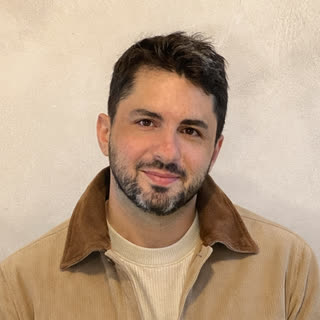
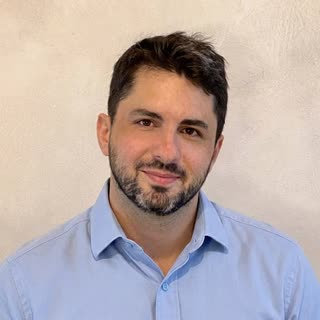
fix(website): new headshot, light-theme hero, AI automation first, mobile hero contrast
Review round 2. Four items.

**New headshot.** Converted with the recipe CREDITS.md documents, square at 600
and 320 in AVIF and JPEG. Smaller than the files it replaces (33 KB against
43 KB for the 600px JPEG) despite being a better crop. Its credit no longer says
"AI-enhanced": the new file is a plain photograph, so claiming enhancement would
be inaccurate in the other direction.

**The hero reads as light in the light theme, without a second video.** The
footage is near-black, so a white scrim over it produced the muddy grey
Francesco saw. I tested brightening as asked: lifting the blacks gives flat grey
and amplifies the banding, because a near-black source has nothing to lift.
Inverting it does work, giving a genuinely light frame with cool silver streaks
that keep the original's structure and contrast, so the light theme now applies
`invert` to the poster and the video and the dark theme removes it. That costs
no extra asset, where a second brightened encode would have meant another 3.2 MB
and swapping `src` on every theme change, which reloads the video and flashes.
Recorded as a design system rule in dome-docs `469cae2`.

**AI process automation now leads Enterprise UX**, in the navigation, the home
service cards and their numbering, the footer, the case study groups, the contact
topics, and the route manifest, which is what orders the sitemap and llms.txt.

**Mobile hero contrast.** The desktop gradient fades to transparent at 80%, which
[…]

diff --git a/src/components/media/HeroMedia.tsx b/src/components/media/HeroMedia.tsx
@@ -51,10 +51,17 @@ export function HeroMedia() {
 
   return (
     <>
+      {/*
+        The source footage is near-black, which is right for the dark theme and wrong for the light
+        one: a white scrim over black reads as muddy grey. Inverting it gives a genuinely light
+        frame with cool silver streaks that keep the original's structure and contrast, and it costs
+        nothing, where a second brightened encode would mean another 3.2 MB and a src swap on every
+        theme change. `invert` applies by default and is removed in the dark theme.
+      */}
       <Picture
         id="homeHeroPoster"
         priority
-        className="absolute inset-0 h-full w-full object-cover [object-position:center_35%]"
+        className="absolute inset-0 h-full w-full object-cover [object-position:center_35%] invert dark:invert-0"
       />
       {showVideo && (
         <video
@@ -67,7 +74,7 @@ export function HeroMedia() {
           poster={poster.jpeg[poster.jpeg.length - 1].src}
           aria-hidden="true"
           tabIndex={-1}
-          className="absolute inset-0 h-full w-full object-cover [object-position:center_35%]"
+          className="absolute inset-0 h-full w-full object-cover [object-position:center_35%] invert dark:invert-0"
         >
           {MEDIA.homeHeroVideo.sources.map((source) => (
             <source key={source.src} src={source.src} type={source.type} />
@@ -75,11 +82,19 @@ export function HeroMedia() {
         </video>
       )}
 
-      {/* Two scrims, both theme-keyed. The horizontal one holds the copy at AA over a busy frame;
-          the vertical one fades the media into the page background at the bottom edge. */}
+      {/*
+        Scrims, all theme-keyed. On phones the copy spans the full width, so the desktop gradient's
+        transparent right-hand third left the end of every line sitting on bare media: the mobile
+        overlay therefore covers the whole width and only softens towards the edge. From `md` up the
+        copy is confined to the left, so the media can still show through on the right.
+      */}
       <div
         aria-hidden="true"
-        className="absolute inset-0 bg-[linear-gradient(90deg,var(--color-scrim-strong)_0%,var(--color-scrim)_48%,transparent_80%)]"
+        className="absolute inset-0 md:hidden bg-[linear-gradient(90deg,var(--color-scrim-strong)_0%,var(--color-scrim-strong)_72%,var(--color-scrim)_100%)]"
+      />
+      <div
+        aria-hidden="true"
+        className="absolute inset-0 hidden md:block bg-[linear-gradient(90deg,var(--color-scrim-strong)_0%,var(--color-scrim)_48%,transparent_80%)]"
       />
       <div
         aria-hidden="true"

diff --git a/src/i18n/routes.ts b/src/i18n/routes.ts
@@ -23,14 +23,14 @@ interface PublicRoute {
  */
 export const PUBLIC_ROUTES = {
   home: { file: 'pages/HomePage.tsx', path: { en: '/', it: '/it' }, updatedAt: '2026-09-22' },
-  enterpriseUx: {
-    file: 'pages/EnterpriseUxPage.tsx',
-    path: { en: '/services/enterprise-ux', it: '/it/servizi/ux-enterprise' },
-    updatedAt: '2026-09-22',
-  },
   aiProcessAutomation: {
     file: 'pages/AiProcessAutomationPage.tsx',
     path: { en: '/services/ai-process-automation', it: '/it/servizi/automazione-processi-ai' },
+    updatedAt: '2026-09-22',
+  },
+  enterpriseUx: {
+    file: 'pages/EnterpriseUxPage.tsx',
+    path: { en: '/services/enterprise-ux', it: '/it/servizi/ux-enterprise' },
     updatedAt: '2026-09-22',
   },
   dome: { file: 'pages/DomePage.tsx', path: { en: '/dome', it: '/it/dome' }, updatedAt: '2026-09-22' },
@@ -149,7 +149,7 @@ export function caseStudyHref(studyId: string, locale: Locale): string {
 }
 
 /** Pages that are neither a tool nor legal: the ones llms.txt lists first. */
-export const PAGE_IDS = ['home', 'enterpriseUx', 'aiProcessAutomation', 'dome', 'caseStudies', 'about', 'contact'] as const satisfies readonly RouteId[]
+export const PAGE_IDS = ['home', 'aiProcessAutomation', 'enterpriseUx', 'dome', 'caseStudies', 'about', 'contact'] as const satisfies readonly RouteId[]
 
 /** Tool pages, in the order the site presents them. */
 export const TOOL_ROUTE_IDS = [

diff --git a/src/sections/home/HomeHero.tsx b/src/sections/home/HomeHero.tsx
@@ -10,12 +10,12 @@ export function HomeHero() {
     <section className="relative h-[620px] overflow-hidden md:h-[780px]">
       <HeroMedia />
       <div className="relative mx-auto flex h-full max-w-[1280px] flex-col justify-center px-6 md:px-12">
-        <div className="flex max-w-[640px] flex-col gap-6 pt-10">
+        <div className="flex max-w-[20rem] flex-col gap-6 pt-10 sm:max-w-[30rem] md:max-w-[640px]">
           <Eyebrow>AI and product consulting for regulated enterprises</Eyebrow>
           <h1 className="text-balance text-[40px] font-bold leading-[1.08] tracking-[-0.03em] text-[var(--color-text-primary)] md:text-[56px]">
             Enterprise software people use, and AI you can audit.
           </h1>
-          <p className="max-w-[560px] text-[17px] leading-[1.7] text-[var(--color-text-secondary)] md:text-[18px]">
+          <p className="max-w-[560px] text-[16px] leading-[1.65] text-[var(--color-text-secondary)] sm:text-[17px] md:text-[18px]">
             We help regulated enterprises redesign complex workflows and automate them with AI that
             stays governed, measurable and explainable.
           </p>

diff --git a/src/sections/home/Services.tsx b/src/sections/home/Services.tsx
@@ -6,17 +6,17 @@ import { useLocale } from '../../i18n/useLocale'
 const SERVICES: { number: string; title: string; body: string; cta: string; route: RouteId }[] = [
   {
     number: '01',
-    title: 'Enterprise UX and product',
-    body: 'We untangle complex internal tools and customer platforms: user research, service design, interface design and a design system your developers can build from.',
-    cta: 'Explore UX and product',
-    route: 'enterpriseUx',
-  },
-  {
-    number: '02',
     title: 'AI process automation',
     body: 'We map a process, automate the parts with clear rules and route the rest to your team with a decision brief and a complete audit trail.',
     cta: 'Explore process automation',
     route: 'aiProcessAutomation',
+  },
+  {
+    number: '02',
+    title: 'Enterprise UX and product',
+    body: 'We untangle complex internal tools and customer platforms: user research, service design, interface design and a design system your developers can build from.',
+    cta: 'Explore UX and product',
+    route: 'enterpriseUx',
   },
   {
     number: '03',

diff --git a/src/pages/CaseStudiesPage.tsx b/src/pages/CaseStudiesPage.tsx
@@ -11,8 +11,8 @@ import { routeMeta } from '../lib/seo'
 export const meta = routeMeta('caseStudies')
 
 const GROUPS: { segment: Segment; eyebrow: string; heading: string }[] = [
-  { segment: 'ux', eyebrow: 'Enterprise UX and product', heading: 'Platforms people have to use every day' },
   { segment: 'automation', eyebrow: 'AI process automation', heading: 'Work that follows a policy' },
+  { segment: 'ux', eyebrow: 'Enterprise UX and product', heading: 'Platforms people have to use every day' },
   { segment: 'dome', eyebrow: 'DOME capabilities', heading: 'The method running end to end' },
 ]
 

diff --git a/src/components/Footer.tsx b/src/components/Footer.tsx
@@ -20,8 +20,8 @@ export function Footer() {
   const t = messages.footer
 
   const links = [
-    { href: localizedHref('enterpriseUx', locale), label: messages.nav.enterpriseUx },
     { href: localizedHref('aiProcessAutomation', locale), label: messages.nav.aiAutomation },
+    { href: localizedHref('enterpriseUx', locale), label: messages.nav.enterpriseUx },
     { href: localizedHref('dome', locale), label: messages.nav.dome },
     { href: localizedHref('caseStudies', locale), label: messages.nav.caseStudies },
     { href: localizedHref('about', locale), label: messages.nav.about },

diff --git a/src/content/media.ts b/src/content/media.ts
@@ -75,8 +75,8 @@ interface MediaAssetBase {
   source: MediaSource
   /**
    * AI-generated imagery shows a visible "AI-generated image" label, which the legal notice
-   * commits us to. The portrait is deliberately false: it is a real photograph that was only
-   * enhanced, so labelling it would be misleading in the other direction.
+   * commits us to. It is false for the portrait, which is a real photograph: labelling that would
+   * be misleading in the other direction.
    */
   aiLabel: boolean
   /** Licence or permission, for anything that is not ours outright. */

diff --git a/src/components/Navigation.tsx b/src/components/Navigation.tsx
@@ -16,8 +16,8 @@ import type { Messages } from '../i18n/messages/types'
  * (plan phase 1c).
  */
 const NAV_ITEMS = [
-  { key: 'enterpriseUx', route: 'enterpriseUx' },
   { key: 'aiAutomation', route: 'aiProcessAutomation' },
+  { key: 'enterpriseUx', route: 'enterpriseUx' },
   { key: 'dome', route: 'dome' },
   { key: 'caseStudies', route: 'caseStudies' },
   { key: 'about', route: 'about' },

diff --git a/middleware.ts b/middleware.ts
@@ -13,8 +13,8 @@ import { isItalianPublished } from './src/i18n/locales'
 export const config = {
   matcher: [
     '/',
-    '/services/enterprise-ux',
     '/services/ai-process-automation',
+    '/services/enterprise-ux',
     '/dome',
     '/dome/process-analyzer',
     '/dome/data-intelligence',

diff --git a/src/components/page/CalEmbed.tsx b/src/components/page/CalEmbed.tsx
@@ -2,8 +2,8 @@ import { useState } from 'react'
 import { CAL_EVENTS, CAL_PUBLIC_URL, calUrl, type CalEvent } from '../../lib/cal'
 
 const TOPICS = [
-  'Enterprise UX and product',
   'AI process automation',
+  'Enterprise UX and product',
   'DOME capabilities',
   'Something else',
 ] as const

diff --git a/src/components/page/ContactForm.tsx b/src/components/page/ContactForm.tsx
@@ -4,8 +4,8 @@ import { localizedHref } from '../../i18n/routes'
 import { useLocale, useMessages } from '../../i18n/useLocale'
 
 const TOPICS = [
-  'Enterprise UX and product',
   'AI process automation',
+  'Enterprise UX and product',
   'DOME capabilities',
   'Something else',
 ]

diff --git a/public/media/CREDITS.md b/public/media/CREDITS.md
@@ -10,8 +10,7 @@ no on-page label, so they are listed here instead.
 
 - **AI-generated** means the image was produced by a generative model from a written brief. No
   image on this site depicts a real client, a real project, or an identifiable person or place.
-- **Photograph** means a real photograph. The portrait of Francesco Prodomo was enhanced but not
-  generated, so it carries no AI label: labelling it would misrepresent it in the other direction.
+- **Photograph** means a real photograph, not generated, so it carries no AI label.
 - **Partner** means supplied by the organisation named, and used with their permission.
 - **No image on this site is licensed stock.** If that changes, the licensor and the licence will
   be named in the table below.
@@ -38,7 +37,7 @@ no on-page label, so they are listed here instead.
 | Case study: trading app redesign | AI-generated | Yes |
 | Case study: AI procurement platform | AI-generated | Yes |
 | Case study: AI training videos | AI-generated | Yes |
-| About, and the leadership card | Photograph of Francesco Prodomo, enhanced | No, see above |
+| About, and the leadership card | Photograph of Francesco Prodomo | No |
 | About, and DOME capabilities | Ionita Consulting, used with permission | No |
 
 ## Questions
